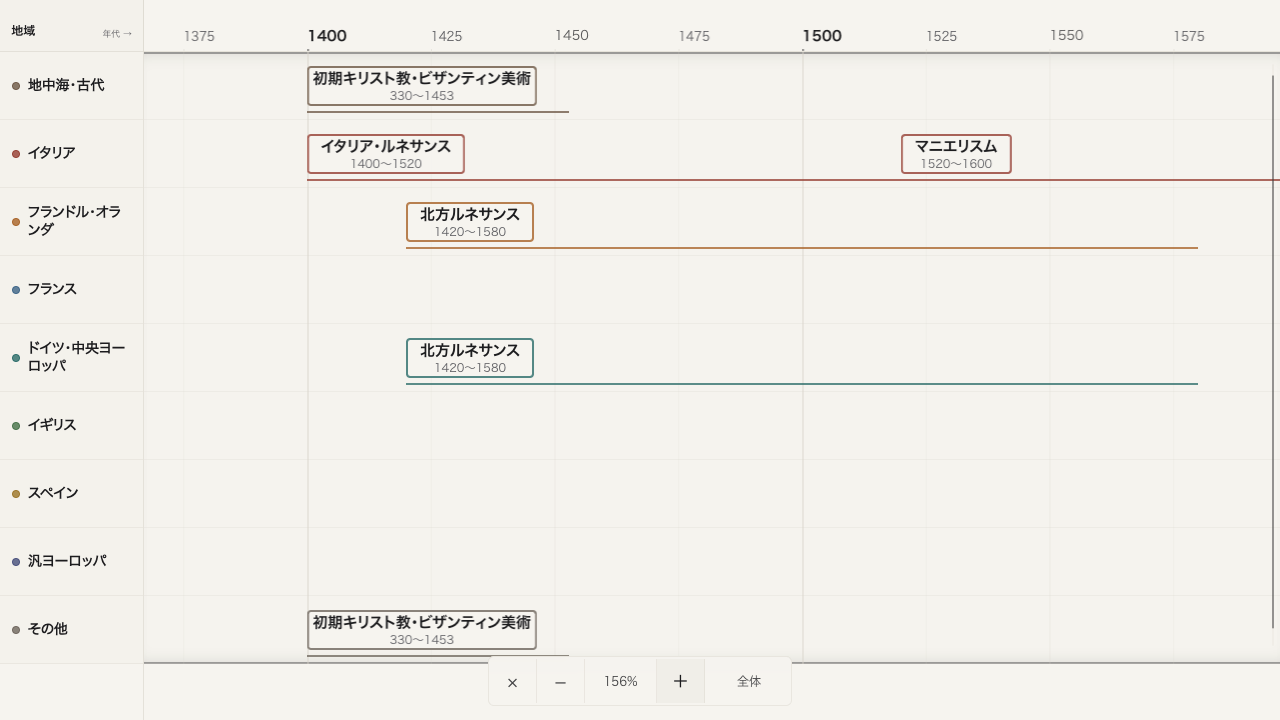
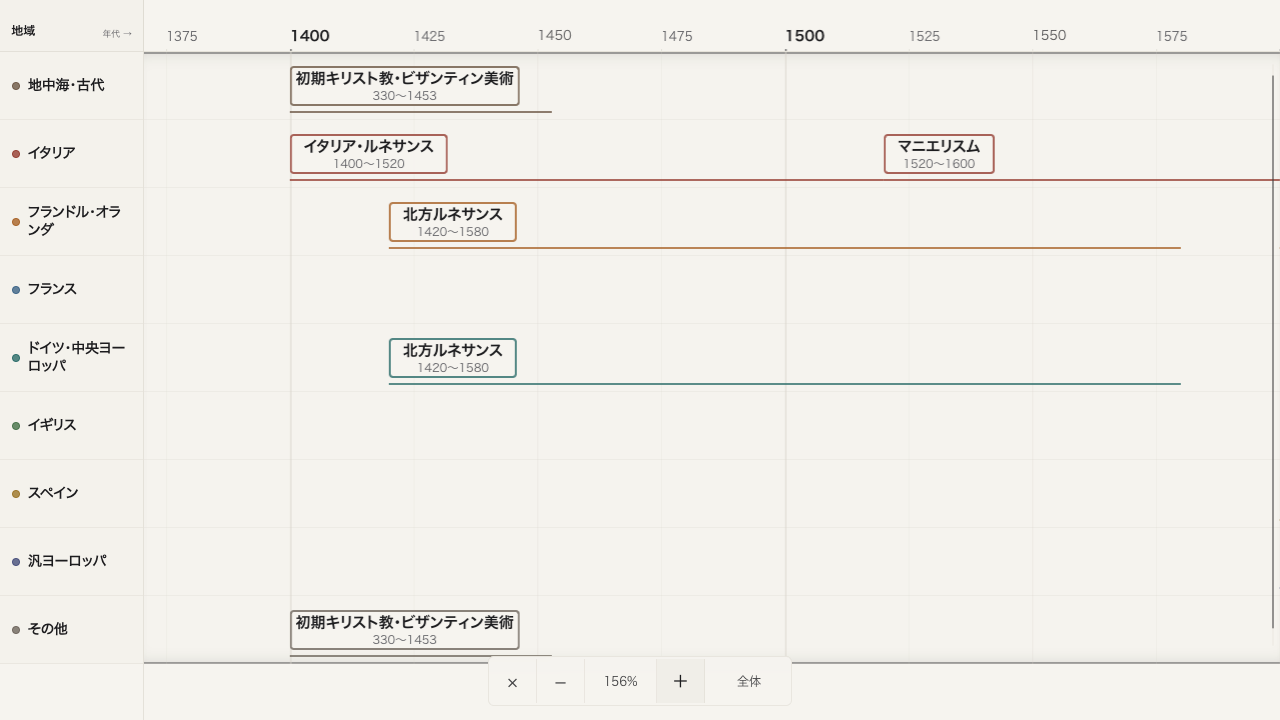
Keep timeline short labels in Japanese

diff --git a/src/components/HorizontalTimeline.tsx b/src/components/HorizontalTimeline.tsx
@@ -30,6 +30,7 @@ import {
   clipMovementToMode,
   fitTimelineModeToMovements,
   movementOverlapsMode,
+  timelineJapaneseShortLabel,
   timelineBarVisualWidth,
   timelineModeById,
   timelineTicks,
@@ -315,7 +316,7 @@ export function HorizontalTimeline({
         movementId: movement.id,
         href: `/movements/${movement.id}/`,
         nameJa: movement.nameJa,
-        shortLabel: movement.shortLabel,
+        shortLabel: timelineJapaneseShortLabel(movement.shortLabel),
         dateLabel: `${fmtYear(movement.dates.start)}〜${
           movement.dates.end === null ? '現在' : fmtYear(movement.dates.end)
         }`,
@@ -344,7 +345,7 @@ export function HorizontalTimeline({
           movementId: movement.id,
           href: `/movements/${movement.id}/`,
           nameJa: summary.label,
-          shortLabel: movement.shortLabel,
+          shortLabel: timelineJapaneseShortLabel(movement.shortLabel),
           dateLabel: `${fmtYear(movement.dates.start)}〜${
             movement.dates.end === null ? '現在' : fmtYear(movement.dates.end)
           }`,
@@ -966,7 +967,9 @@ export function HorizontalTimeline({
                         <span
                           data-follow-label
                           data-full-label={movement.nameJa}
-                          data-short-label={movement.shortLabel}
+                          data-short-label={timelineJapaneseShortLabel(
+                            movement.shortLabel,
+                          )}
                           className="timeline-follow-label pointer-events-none absolute inset-y-0 left-0 flex flex-col items-center justify-center overflow-hidden px-px"
                         >
                           <span

diff --git a/src/lib/timeline-presentation.ts b/src/lib/timeline-presentation.ts
@@ -349,6 +349,13 @@ export type TimelineLabelChoice = {
   variant: 'full' | 'short' | 'ellipsis';
 };
 
+export function timelineJapaneseShortLabel(shortLabel?: string) {
+  if (!shortLabel) return undefined;
+  return /[\u3040-\u30ff\u3400-\u9fff]/u.test(shortLabel)
+    ? shortLabel
+    : undefined;
+}
+
 export function chooseTimelineLabel({
   name,
   shortLabel,
@@ -356,14 +363,18 @@ export function chooseTimelineLabel({
   nameWidth,
   shortLabelWidth,
 }: TimelineLabelChoiceInput): TimelineLabelChoice {
+  const japaneseShortLabel = timelineJapaneseShortLabel(shortLabel);
   if (nameWidth <= availableWidth) {
     return { label: name, variant: 'full' };
   }
-  if (shortLabel && (shortLabelWidth ?? Number.POSITIVE_INFINITY) <= availableWidth) {
-    return { label: shortLabel, variant: 'short' };
+  if (
+    japaneseShortLabel &&
+    (shortLabelWidth ?? Number.POSITIVE_INFINITY) <= availableWidth
+  ) {
+    return { label: japaneseShortLabel, variant: 'short' };
   }
   return {
-    label: shortLabel ?? name,
+    label: japaneseShortLabel ?? name,
     variant: 'ellipsis',
   };
 }

diff --git a/tests/unit/logic.test.ts b/tests/unit/logic.test.ts
@@ -459,5 +459,17 @@ describe('横型タイムラインの追従ラベル', () => {
         shortLabelWidth: 170,
       }),
     ).toMatchObject({ variant: 'ellipsis' });
+    expect(
+      chooseTimelineLabel({
+        name: 'ライト・アンド・スペース',
+        shortLabel: 'Light and Space',
+        availableWidth: 120,
+        nameWidth: 190,
+        shortLabelWidth: 100,
+      }),
+    ).toMatchObject({
+      label: 'ライト・アンド・スペース',
+      variant: 'ellipsis',
+    });
   });
 });
